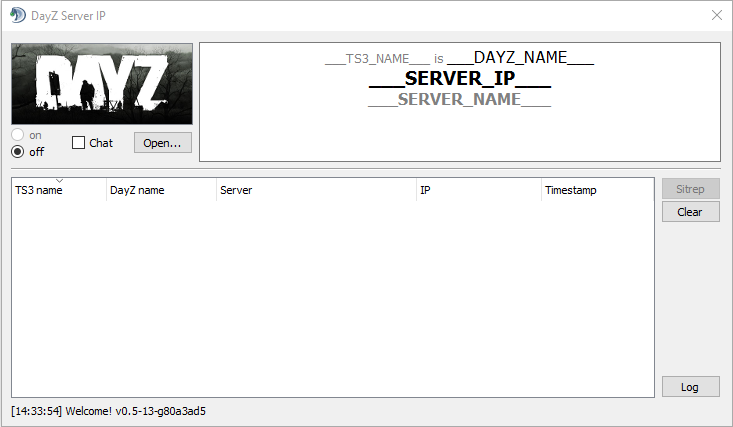
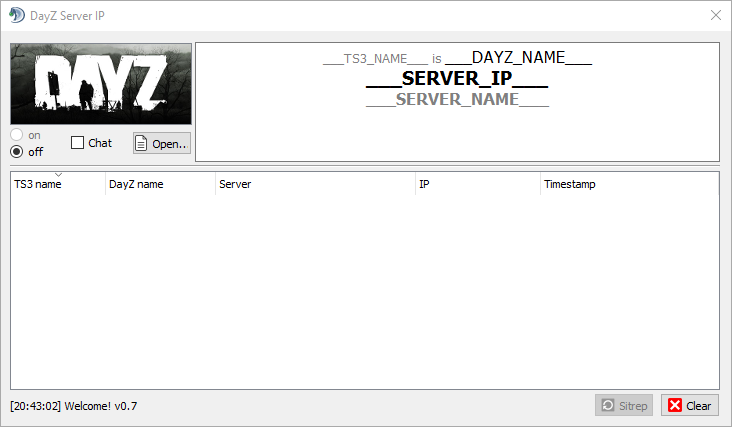
Update documentation to reflect 0.7

diff --git a/doc/MANUAL.md b/doc/MANUAL.md
@@ -4,8 +4,8 @@
 So you know your shit and don't want/need me to guide you through?  
 Fine by me - let's go!
 
-1. Install the plugin by double-clicking `dayzsrvip.ts3_plugin`. Make sure it's enabled.
-2. Open its window via `Show` in the `Plugins`, `DayZ Server IP` menu.
+1. In your TeamSpeak client, go to `Tools`, `Options`, `Addons`. You can browse myTeamSpeak and install DayZ Server IP from there.
+2. In your TeamSpeak client, go to `Plugins`, `DayZ Server IP` and click `Show`.
 3. Click `Open...` to select your `.DayZProfile` file.
 4. Join your TeamSpeak server and channel, then click `on`.
 5. Have everybody else who you're going to play with go through steps 1-4.
@@ -14,28 +14,23 @@ Fine by me - let's go!
 ![alt-text](png/main_window.png)
 
 # DayZ Server IP - user guide
-
 Follow these few steps and you'll be up and running in a few minutes!
 
 Just to make sure there's no misunderstanding: you and all your friends need to install and use this plugin, it doesn't work own its own!
 (If it did, that would be real magic!)
 
 ## Install plugin
-:warning: __not updated yet to reflect myteamspeak.com__
-
-You can choose to install the plugin manually (download the `.zip`) or automatically (download the `.ts3_plugin`).
-
 ### automatic installation
-Download and double-click `dayzsrvip.ts3_plugin`. TeamSpeak's plugin installer will open and do everything for you.
+Go to menu `Tools`, `Options` and `Addons` in your TeamSpeak client. You can browse online for plugins and there you should find [Dayz Server IP](https://www.myteamspeak.com/addons/36985fae-1157-4be2-b807-93f72414105c).
+![alt-text](png/addons_online.png)
+
+### manual installation
+You can download the `.ts3_plugin` from either [myTeamSpeak](https://www.myteamspeak.com) or the [releases](https://github.com/dehesselle/dayzsrvip/releases) page here on GitHub. Double click it and the TeamSpeak Add-On installer will show up and do everything for you.
 
 ![alt-text](png/ts3_plugin_installer.png)
 
-### manual installation
-Download `dayzsrvip_n.n_x64.zip` (`n.n` for the version number) and extract it.
-You need to put the `dayzsrvip.dll` into TeamSpeak's `plugins` directory.
-
-![alt-text](png/explorer_ts3_folder.png)
-
+### _even more_ manual installation
+If you don't like using installers at all, download the `.ts3_plugin`, rename it to `.zip` and put the contents of the extracted `plugins` folder into your TeamSpeak's `plugins` folder.
 #### Enable plugin
 After putting it in the `plugins` folder, start Teamspeak and go to `Settings`, `Plugins`...
 
@@ -67,13 +62,11 @@ You cannot see the data that it transmitted between plugins. But you can enable 
 
 The "player list" section __(2)__ gets updated automatically whenever somebody joins a DayZ server. That also means that there won't be any updates in between, while everyone is playing. So if you're late to the party and everybody else has already joined a server, you'll have missed all those initial updates - and that's not good, is it? That's what the `Sitrep` button __(5)__ is there for. You can manually request a situation report from all other clients to get you updated.
 
-The `Clear` button __(6)__ is hopefully self-explanatory, it gets rid of all the data in the "remote info" __(2)__ section.
-
-The `Log` button __(7)__ is there to quickly open TeamSpeak's logfile, this helps with debugging.
+The `Clear` button __(6)__ is hopefully self-explanatory, it gets rid of all the data in the "player list" __(2)__ section.
 
 # How does this work?
 It's not magic, that's for sure!
 
 Whenever there are changes to your `.DayZProfile` file, the plugin gathers server IP, server name and character name from it and sends an internal (as in: invisible) message to your current channel in TeamSpeak. All clients with this plugin process this message and use it to update the "player list" __(2)__.
 
-No tricks are used; there is no interference with BattlEye, VAC, ... whatever. You don't need to take my word for it, the sourcecode is available for a reason.
+__No tricks__ are used; there is __no interference__ with BattlEye, VAC, ... whatever. But you don't need to take my word for it, the sourcecode is available for a reason.
